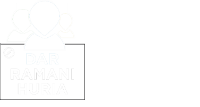
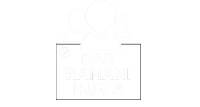
made changes to images, also removed styling on html

diff --git a/index.html b/index.html
@@ -818,21 +818,21 @@
 		<h1>Our clients<span>.</span></h1>
 		<hr />
 
-		<div style="left:0; right:0; width:115%; ">
-		
-  <img src="images/Clients/Clouds_TV_lrgl.png" alt="" hspace="7"/>
-  <img src="images/Clients/dar_ramani_hurial.png" alt=""hspace="7" />
-  <img src="images/Clients/dawasco.png" alt=""hspace="7"/>
-    <img src="images/Clients/FSDTh.png" alt=""hspace="7"/>
-  <img src="images/Clients/steps_logo_copy_400x400f.png" alt=""hspace="7"/>
-  <img src="images/Clients/mavc_logo.png" alt=""hspace="7"/>
-  <img src="images/Clients/The_World_Bank_logol.png" alt=""hspace="3"/>
- <img src="images/Clients/SMEC-logo-RGB-large1.png" alt=""hspace="3"/>
-   <img src="images/Clients/median.png" alt=""hspace="3"/>
-  <img src="images/Clients/logo-ubongokids.png" alt=""hspace="3"/>
- <img src="images/Clients/turun_yliopisto_rgbl.png" alt=""hspace="3"/>
-   <img src="images/Clients/y global logo.png" alt=""hspace="3"/>
-  
+		<div>
+
+  <img src="images/Clients/Clouds_TV_lrgl.png" alt="" />
+  <img src="images/Clients/dar_ramani_hurial.png" alt="" />
+  <img src="images/Clients/dawasco.png" alt=""/>
+    <img src="images/Clients/FSDTh.png" alt=""/>
+  <img src="images/Clients/steps_logo_copy_400x400f.png" alt=""/>
+  <img src="images/Clients/mavc_logo.png" alt=""/>
+  <img src="images/Clients/The_World_Bank_logol.png" alt=""/>
+ <img src="images/Clients/SMEC-logo-RGB-large1.png" alt=""/>
+   <img src="images/Clients/median.png" alt=""/>
+  <img src="images/Clients/logo-ubongokids.png" alt=""/>
+ <img src="images/Clients/turun_yliopisto_rgbl.png" alt=""/>
+   <img src="images/Clients/y global logo.png" alt=""/>
+
   </div>
      	<!--our clients ends-->
 		<h1> Who Are We<span>.</span></h1>
